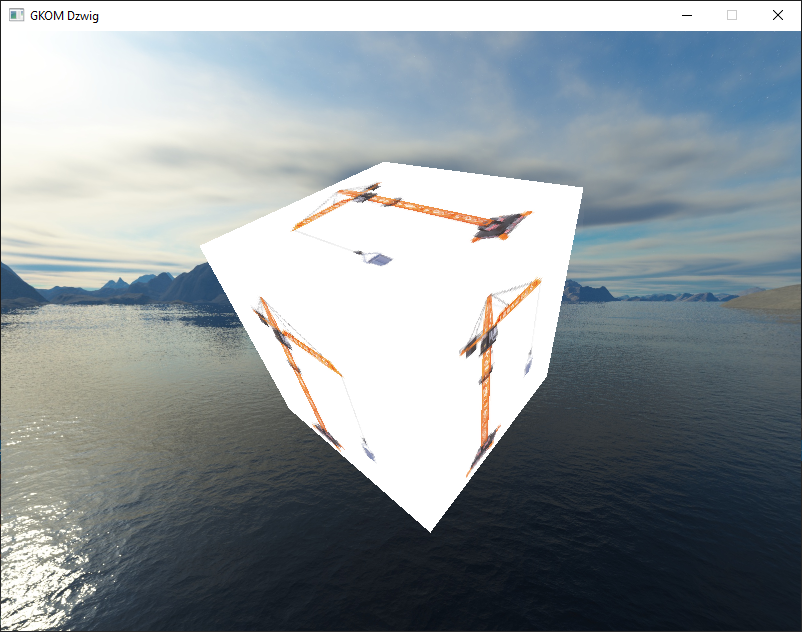
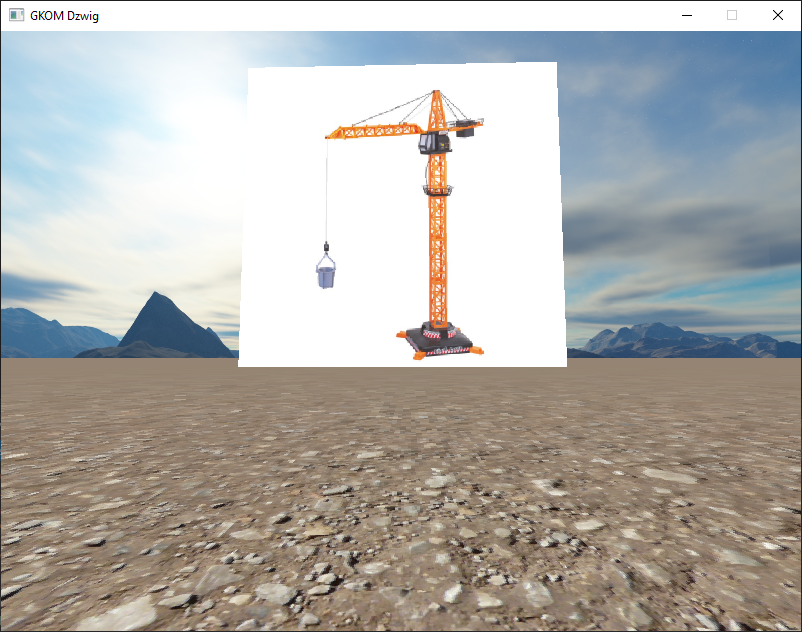
Poprawki, podłoże

diff --git a/Dzwig/Cuboid.cpp b/Dzwig/Cuboid.cpp
@@ -63,48 +63,51 @@ Cuboid::Cuboid(GLfloat posX, GLfloat posY, GLfloat posZ, GLfloat scaleX, GLfloat
 	modelMatrix = glm::mat4(1.0f);
 
 	vertexTexture = {
-		-1.0f,  1.0f, -1.0f, 0.0f, 0.0f,
-		-1.0f, -1.0f, -1.0f, 1.0f, 0.0f,
-		 1.0f, -1.0f, -1.0f, 1.0f, 1.0f,
-		 1.0f, -1.0f, -1.0f, 1.0f, 1.0f,
-		 1.0f,  1.0f, -1.0f, 0.0f, 1.0f,
-		-1.0f,  1.0f, -1.0f, 0.0f, 0.0f,
+		-1.0f,  -1.0f, -1.0f, 0.0f, 0.0f,
+		1.0f, -1.0f, -1.0f, 1.0f, 0.0f,
+		 1.0f, 1.0f, -1.0f, 1.0f, 1.0f,
+		 1.0f, 1.0f, -1.0f, 1.0f, 1.0f,
+		 -1.0f,  1.0f, -1.0f, 0.0f, 1.0f,
+		-1.0f,  -1.0f, -1.0f, 0.0f, 0.0f,
 
 		-1.0f, -1.0f,  1.0f, 0.0f, 0.0f,
-		-1.0f, -1.0f, -1.0f, 1.0f, 0.0f,
-		-1.0f,  1.0f, -1.0f, 1.0f, 1.0f,
-		-1.0f,  1.0f, -1.0f, 1.0f, 1.0f,
+		1.0f, -1.0f, 1.0f, 1.0f, 0.0f,
+		1.0f,  1.0f, 1.0f, 1.0f, 1.0f,
+		1.0f,  1.0f, 1.0f, 1.0f, 1.0f,
 		-1.0f,  1.0f,  1.0f, 0.0f, 1.0f,
 		-1.0f, -1.0f,  1.0f, 0.0f, 0.0f,
 
-		 1.0f, -1.0f, -1.0f, 1.0f, 0.0f,
-		 1.0f, -1.0f,  1.0f, 1.0f, 1.0f,
-		 1.0f,  1.0f,  1.0f, 0.0f, 1.0f,
-		 1.0f,  1.0f,  1.0f, 0.0f, 1.0f,
-		 1.0f,  1.0f, -1.0f, 0.0f, 0.0f,
-		 1.0f, -1.0f, -1.0f, 1.0f, 0.0f,
+		 -1.0f, 1.0f, 1.0f, 1.0f, 0.0f,
+		 -1.0f, 1.0f,  -1.0f, 1.0f, 1.0f,
+		 -1.0f,  -1.0f,  -1.0f, 0.0f, 1.0f,
+		 -1.0f,  -1.0f,  -1.0f, 0.0f, 1.0f,
+		 -1.0f,  -1.0f, 1.0f, 0.0f, 0.0f,
+		 -1.0f, 1.0f, 1.0f, 1.0f, 0.0f,
 
-		-1.0f, -1.0f,  1.0f, 1.0f, 0.0f,
-		-1.0f,  1.0f,  1.0f, 1.0f, 1.0f,
-		 1.0f,  1.0f,  1.0f, 0.0f, 1.0f,
-		 1.0f,  1.0f,  1.0f, 0.0f, 1.0f,
+		1.0f, 1.0f,  1.0f, 1.0f, 0.0f,
+		1.0f,  1.0f,  -1.0f, 1.0f, 1.0f,
+		 1.0f,  -1.0f,  -1.0f, 0.0f, 1.0f,
+		 1.0f,  -1.0f,  -1.0f, 0.0f, 1.0f,
 		 1.0f, -1.0f,  1.0f, 0.0f, 0.0f,
-		-1.0f, -1.0f,  1.0f, 1.0f, 0.0f,
+		1.0f, 1.0f,  1.0f, 1.0f, 0.0f,
 
-		-1.0f,  1.0f, -1.0f, 0.0f, 1.0f,
-		 1.0f,  1.0f, -1.0f, 1.0f, 1.0f,
-		 1.0f,  1.0f,  1.0f, 1.0f, 0.0f,
-		 1.0f,  1.0f,  1.0f, 1.0f, 0.0f,
-		-1.0f,  1.0f,  1.0f, 0.0f, 0.0f,
-		-1.0f,  1.0f, -1.0f, 0.0f, 1.0f,
+		-1.0f,  -1.0f, -1.0f, 0.0f, 1.0f,
+		 1.0f,  -1.0f, -1.0f, 1.0f, 1.0f,
+		 1.0f,  -1.0f,  1.0f, 1.0f, 0.0f,
+		 1.0f,  -1.0f,  1.0f, 1.0f, 0.0f,
+		-1.0f,  -1.0f,  1.0f, 0.0f, 0.0f,
+		-1.0f,  -1.0f, -1.0f, 0.0f, 1.0f,
 
-		-1.0f, -1.0f, -1.0f, 0.0f, 1.0f,
-		-1.0f, -1.0f,  1.0f, 1.0f, 1.0f,
-		 1.0f, -1.0f, -1.0f, 1.0f, 0.0f,
-		 1.0f, -1.0f, -1.0f, 1.0f, 0.0f,
-		-1.0f, -1.0f,  1.0f, 0.0f, 0.0f,
-		 1.0f, -1.0f,  1.0f, 0.0f, 1.0f
+		-1.0f, 1.0f, -1.0f, 0.0f, 1.0f,
+		1.0f, 1.0f,  -1.0f, 1.0f, 1.0f,
+		 1.0f, 1.0f, 1.0f, 1.0f, 0.0f,
+		 1.0f, 1.0f, 1.0f, 1.0f, 0.0f,
+		-1.0f, 1.0f,  1.0f, 0.0f, 0.0f,
+		 -1.0f, 1.0f,  -1.0f, 0.0f, 1.0f,
+		 -1.0f, 1.0f,  -1.0f, 0.0f, 1.0f
 	};
+
+	generateModelMatrix();
 }
 
 void Cuboid::generateVertices()
@@ -135,9 +138,13 @@ void Cuboid::scale()
 void Cuboid::generateModelMatrix()
 {
 	modelMatrix = glm::mat4(1.0f);
-	scale();
-	rotate();
+
+	
 	translate();
+	rotate();
+	scale();
+	
+	
 }
 
 GLfloat* Cuboid::getVertexArrayPointer()
@@ -163,18 +170,21 @@ GLuint Cuboid::getVertexTextureArraySize()
 void Cuboid::setScale(GLfloat x, GLfloat y, GLfloat z)
 {
 	scaleX = x; scaleY = y; scaleZ = z;
+	//glm::scale(modelMatrix, glm::vec3(x, y, z));
 	generateModelMatrix();
 }
 
 void Cuboid::setPosition(GLfloat x, GLfloat y, GLfloat z)
 {
 	posX = x; posY = y; posZ = z;
+	//glm::translate(modelMatrix, glm::vec3(x, y, z));
 	generateModelMatrix();
 }
 
 void Cuboid::setRotation(GLfloat x, GLfloat y, GLfloat z, GLfloat angle)
 {
 	rotX = x; rotY = y; rotZ = z; rotAngle = angle;
+	//glm::rotate(modelMatrix, glm::radians(angle), glm::vec3(x, y, z));
 	generateModelMatrix();
 }
 
@@ -201,6 +211,21 @@ void Cuboid::setTexture(std::string fname, GLuint type)
 void Cuboid::setTexture(std::vector<std::string> fnames, GLuint type)
 {
 	cubeTexture = CubemapTexture(fnames);
+}
+
+void Cuboid::divideTextureCoords(GLfloat div)
+{
+	int j = 3;
+	for (int i = 0; i < vertexTexture.size(); ++i)
+	{
+		if (i == j)
+			vertexTexture[i] /= div;
+		if (i == j + 1)
+		{
+			vertexTexture[i] /= div;
+			j += 5;
+		}
+	}
 }
 
 Texture Cuboid::getTexture()

diff --git a/Dzwig/Window.cpp b/Dzwig/Window.cpp
@@ -48,6 +48,10 @@ void Window::onKey(int key, int scancode, int action, int mods)
 		camera.setFOV(camera.getFOV()+ 1.0f);
 	if (key == GLFW_KEY_KP_DIVIDE && (action == GLFW_PRESS || action == GLFW_REPEAT))
 		camera.setFOV(camera.getFOV() - 1.0f);
+	if (key == GLFW_KEY_KP_ADD && (action == GLFW_PRESS || action == GLFW_REPEAT))
+		camera.increaseCameraSpeed(1.f);
+	if (key == GLFW_KEY_KP_SUBTRACT && (action == GLFW_PRESS || action == GLFW_REPEAT))
+		camera.decreaseCameraSpeed(1.f);
 
 	if (key == GLFW_KEY_UP && (action == GLFW_PRESS || action == GLFW_REPEAT))
 		cube.setPosition(cube.getPosition()[0], cube.getPosition()[1]+1, cube.getPosition()[2]);
@@ -96,12 +100,13 @@ void Window::key_callback(GLFWwindow * window, int key, int scancode, int action
 		glfwSetWindowShouldClose(window, GL_TRUE);
 }
 
+
 Window::Window(GLuint w, GLuint h)
 {
 	this->width = w;
 	this->height = h;
 	
-
+	
 	if (glfwInit() != GL_TRUE)
 	{
 		cout << "GLFW initialization failed" << endl;
@@ -152,6 +157,9 @@ Window::Window(GLuint w, GLuint h)
 
 		this->shaderProgram = ShaderProgram("gl_05.vert", "gl_05.frag");
 		this->skyboxShader = ShaderProgram("skybox.vert", "skybox.frag");
+
+		//ground = Cuboid(0,0,0,2,3,1,1,0,0,45);
+		
 	}
 	catch (exception ex)
 	{
@@ -164,13 +172,16 @@ int Window::mainLoop()
 {
 	try
 	{
-		GLuint VBO, VAO;
+		GLuint VBO, VAO, VBO1, VAO1;
 		unsigned int skyboxVAO, skyboxVBO;
 		Cuboid skyboxCube;
-		;
 		cube.setTexture("tex.jpg");
-		//cube.setScale(1.f, 2.f, 3.f);
-		cube.setRotation(1, 1, 1, 45);
+		cube.setScale(20, 20, 1);
+		ground.setTexture("gnd1.jpg");
+		ground.setPosition(0, -20, 0);
+		ground.setScale(1000, 1, 1000);
+		ground.divideTextureCoords(0.008f);
+		
 
 		std::vector<std::string> fileNames =
 		{
@@ -202,6 +213,25 @@ int Window::mainLoop()
 
 		glBindBuffer(GL_ARRAY_BUFFER, 0);
 
+		glGenVertexArrays(1, &VAO1);
+		glGenBuffers(1, &VBO1);
+		glBindVertexArray(VAO1);
+		glBindBuffer(GL_ARRAY_BUFFER, VBO1);
+		glBufferData(
+			GL_ARRAY_BUFFER,
+			ground.getVertexTextureArraySize() * sizeof(GLfloat),
+			ground.getVertexTextureArrayPointer(),
+			GL_STATIC_DRAW);
+
+		// position
+		glVertexAttribPointer(0, 3, GL_FLOAT, GL_FALSE, 5 * sizeof(GLfloat), (void*)0);
+		glEnableVertexAttribArray(0);
+		// texture
+		glVertexAttribPointer(1, 2, GL_FLOAT, GL_FALSE, 5 * sizeof(GLfloat), (void*)(3 * sizeof(float)));
+		glEnableVertexAttribArray(1);
+
+		glBindBuffer(GL_ARRAY_BUFFER, 0);
+
 		glBindVertexArray(0);
 
 
@@ -221,6 +251,8 @@ int Window::mainLoop()
 		);
 		glEnableVertexAttribArray(0);
 		glVertexAttribPointer(0, 3, GL_FLOAT, GL_FALSE, 3 * sizeof(float), (void*)0);
+
+		
 		
 		// main event loop
 		while (!glfwWindowShouldClose(openglWindow))
@@ -239,19 +271,25 @@ int Window::mainLoop()
 			shaderProgram.Use();
 
 			// create transformations
-			glm::mat4 model = glm::mat4(1.0f);
-			glm::mat4 view = glm::mat4(1.0f);
+			glm::mat4 view = camera.getWorldToViewMatrix();
 			glm::mat4 projection = glm::mat4(1.0f);
-			model = glm::translate(model, glm::vec3(1.0f, 1.0f, 1.0f));
-			model = cube.getModelMatrix();
+
 			projection = glm::perspective(glm::radians(camera.getFOV()), (float)width / height, 0.1f, 1000.0f);
 
-			glm::mat4 trans = projection*camera.getWorldToViewMatrix()*model;
+			glm::mat4 trans = projection*view*cube.getModelMatrix();
 			
 			glUniformMatrix4fv(glGetUniformLocation(shaderProgram.get_programID(), "transform"), 1, GL_FALSE, &trans[0][0]);
 
 			// render box
 			glBindVertexArray(VAO);
+			glDrawArrays(GL_TRIANGLES, 0, 36);
+
+			glBindVertexArray(VAO1);
+			glActiveTexture(GL_TEXTURE0);
+			glBindTexture(GL_TEXTURE_2D, ground.getTexture().getTextureID());
+
+			trans = projection * camera.getWorldToViewMatrix()*ground.getModelMatrix();
+			glUniformMatrix4fv(glGetUniformLocation(shaderProgram.get_programID(), "transform"), 1, GL_FALSE, &trans[0][0]);
 			glDrawArrays(GL_TRIANGLES, 0, 36);
 
 			glDepthFunc(GL_LEQUAL);

diff --git a/Dzwig/Cuboid.h b/Dzwig/Cuboid.h
@@ -43,7 +43,7 @@ public:
 	Cuboid(
 		GLfloat posX = 0.f, GLfloat posY = 0.f, GLfloat posZ = 0.f, 
 		GLfloat scaleX=1.0f, GLfloat scaleY=1.0f, GLfloat scaleZ=1.0f,
-		GLfloat rotX=0.f, GLfloat rotY=0.f, GLfloat rotZ=0.f, GLfloat rotAngle = 0.f);
+		GLfloat rotX=1.f, GLfloat rotY=1.f, GLfloat rotZ=1.f, GLfloat rotAngle = 0.f);
 	void generateVertices();
 
 	glm::mat4 getModelMatrix();
@@ -65,6 +65,8 @@ public:
 
 	void setTexture(std::string fname, GLuint type = GL_TEXTURE_2D);
 	void setTexture(std::vector<std::string> fnames, GLuint type = GL_TEXTURE_CUBE_MAP);
+
+	void divideTextureCoords(GLfloat div);
 
 	Texture getTexture();
 

diff --git a/Dzwig/Window.h b/Dzwig/Window.h
@@ -28,6 +28,7 @@ class Window
 	glm::dvec2 prevMousePos;
 
 	Cuboid cube;
+	Cuboid ground;
 
 	void key_callback(GLFWwindow* window, int key, int scancode, int action, int mode);
 	//GLuint LoadMipmapTexture(GLuint texId, const char* fname);
@@ -64,6 +65,7 @@ class Window
 
 	
 public:
+	//Window();
 	Window(GLuint w = 800, GLuint h = 600);
 	int mainLoop();
 

diff --git a/Dzwig/Camera.cpp b/Dzwig/Camera.cpp
@@ -100,3 +100,13 @@ void Camera::resetCamera()
 {
 	//todo
 }
+
+void Camera::increaseCameraSpeed(GLfloat inc)
+{
+	movSpeed = movSpeed + inc > 10.f ? 10.f : movSpeed + inc;
+}
+
+void Camera::decreaseCameraSpeed(GLfloat dec)
+{
+	movSpeed = movSpeed - dec < 0.1f ? 0.1f : movSpeed - dec;
+}

diff --git a/Dzwig/Dzwig.cpp b/Dzwig/Dzwig.cpp
@@ -10,9 +10,12 @@ using namespace std;
 #include <glm/gtc/type_ptr.hpp>
 #include "Window.h"
 
+#define WIDTH 800
+#define HEIGHT 600
+
 int main()
 {
-	Window mainWindow;
+	Window mainWindow(WIDTH, HEIGHT);
 	mainWindow.mainLoop();
 	return 0;
 }

diff --git a/Dzwig/Camera.h b/Dzwig/Camera.h
@@ -33,5 +33,8 @@ public:
 	void setFOV(GLfloat fov);
 	void rotateCamera(GLfloat dx, GLfloat dy);
 	void resetCamera();
+
+	void increaseCameraSpeed(GLfloat inc);
+	void decreaseCameraSpeed(GLfloat dec);
 };
 
